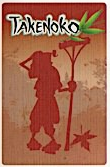
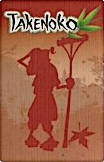
Dernier ajustement des images objectif et changement de l'image du dos de parcelle ainsi que supression de la mauvaise

diff --git a/src/View.java b/src/View.java
@@ -365,7 +365,7 @@ public class View {
         selectionAction.getChildren().add(circleObjectif);
 
 
-        ImageView imageActionParcelle =new ImageView("image/parcelle.jpg");
+        ImageView imageActionParcelle =new ImageView("image/DosDeTuile.PNG");
         imageActionParcelle.setPreserveRatio(true);
         imageActionParcelle.setFitHeight(40);
         addInfo(imageActionParcelle, "Pioche 3 parcelles, en choisit une et la pose", x, y-20);

diff --git a/test/JoueurUnitTest.java b/test/JoueurUnitTest.java
@@ -1,3 +1,4 @@
+/*
 
 import org.junit.Assert;
 import org.junit.Test;
@@ -44,3 +45,4 @@ public class JoueurUnitTest {
         Assert.assertEquals(j.getNbObjectifsRealises(), 0);
     }
 }
+*/

diff --git a/test/ObjectifUnitTest.java b/test/ObjectifUnitTest.java
@@ -1,3 +1,4 @@
+/*
 
 import org.junit.Assert;
 import org.junit.Test;
@@ -95,3 +96,4 @@ public class ObjectifUnitTest {
 
 
 }
+*/
